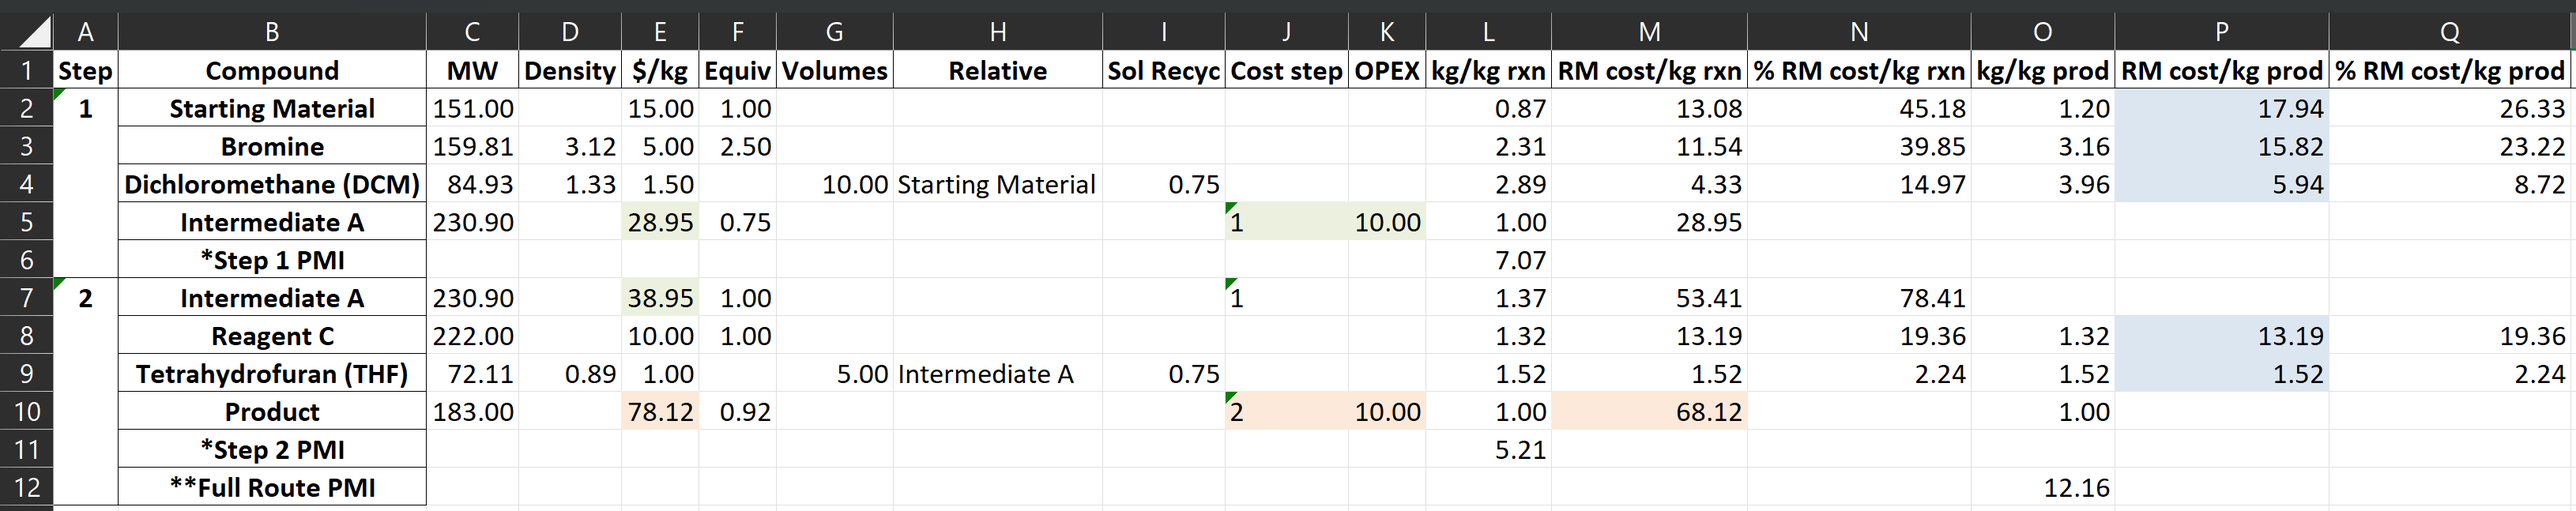
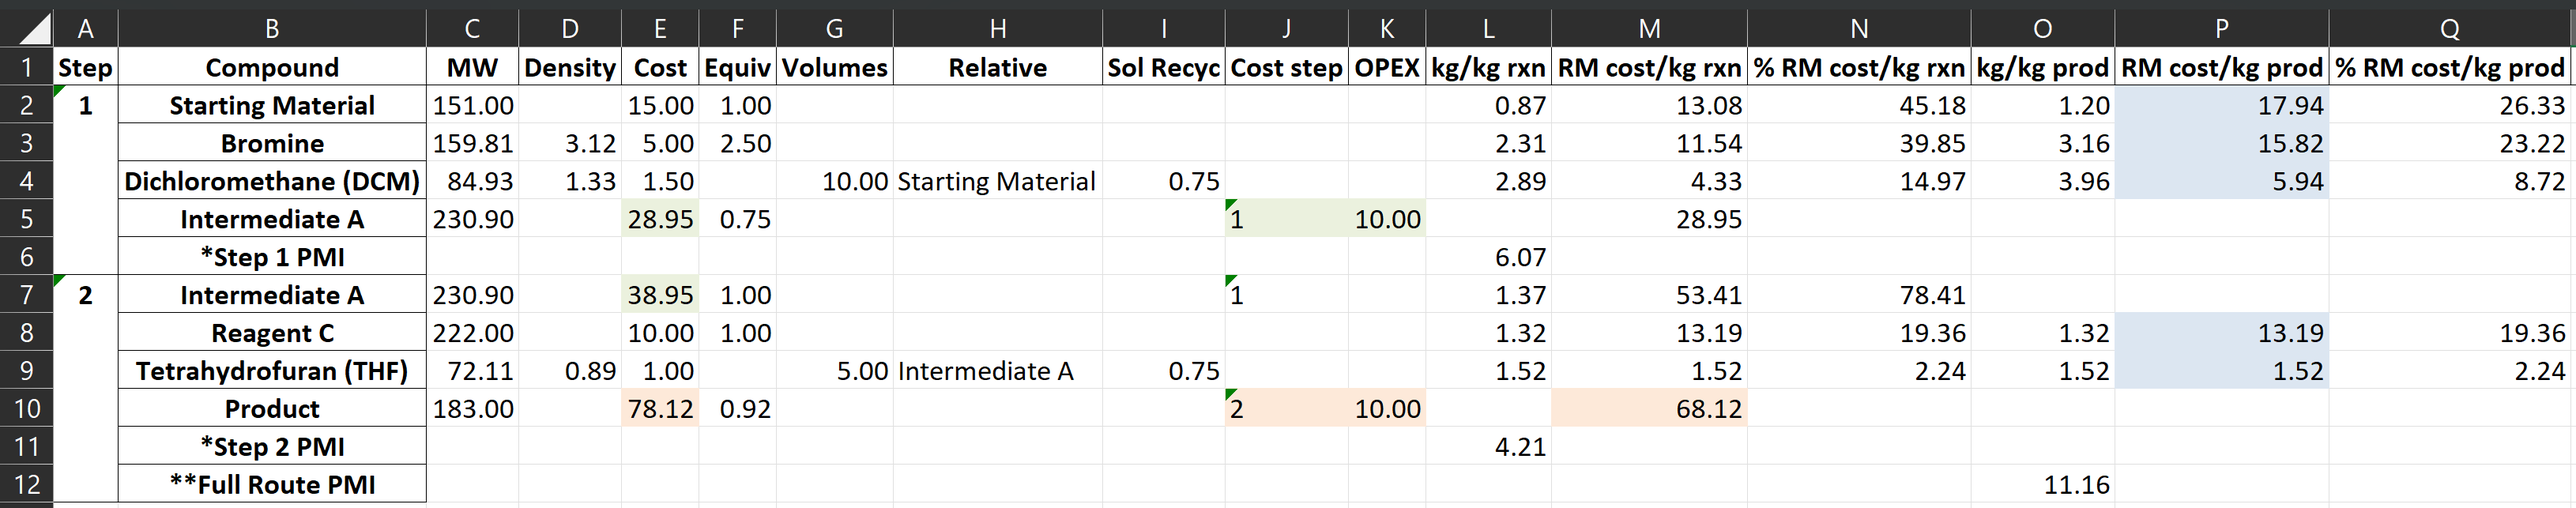
Fix docs for PMI updates

diff --git a/docs/interpret_results.rst b/docs/interpret_results.rst
@@ -37,12 +37,14 @@ route. Brief descriptions of these columns are below.
 
 * *kg/kg rxn*: These values are the number of kgs that are needed for each
   reagent/solvent in order to make 1 kg of reaction product. Notice that the
-  number of kgs of reaction product is always 1.0.
+  reaction product does not have a number here because of the assumed value of
+  1 kg.
 
 * *RM cost/kg rxn*: These are the costs ($/kg) for each reagent/solvent that
   would be needed to make 1 kg of reaction product. This is simply the *kg/kg
   rxn* column multiplied by the *$/kg* column. The sum of these values would
-  be the RMC for each reaction product.
+  be the RMC for each reaction product and is the value in the product cell
+  for this column.
 
 * *% RM cost/kg rxn*: These are the *RM cost/kg rxn* expressed as percentages
   of the RMC for the reaction product. In other words, this is the *RM cost/kg
@@ -57,18 +59,19 @@ values should be interpreted for the entire route. Brief descriptions of these
 columns are below.
 
 * *kg/kg prod*: The number of kgs needed for each reagent/solvent in order to
-  synthesize 1 kg of the final product of the route.
+  synthesize 1 kg of the final product of the route. The 1 kg of final product
+  is not included in this column.
 
 * *RM cost/kg prod*: The RM cost contribution ($/kg) of each reagent/solvent
   to the RMC of the route product. This is simply *kg/kg prod* multiplied by
   the *$/kg* column. The sum of these values across the entire route should
   equal the RMC of the route product, *unless* OPEX is being added to one or
-  more reaction steps. 
+  more reaction steps. See :ref:`the OPEX section below <OPEX>`.
 
 * *% RM cost/kg prod*: Again, this is simply the *RM cost/kg prod* expressed
   as a percentage of the RMC for the overall route product. The sum of these
   values across the entire route should be 100%, *unless* OPEX is being added
-  to one or more reaction steps.
+  to one or more reaction steps. See :ref:`the OPEX section below <OPEX>`.
 
 PMI Values
 ----------
@@ -78,9 +81,10 @@ intensity (PMI) for each reaction (rows 6 and 11) and the overall route (row
 12). PMI can be defined as the number of kgs of materials needed to make 1 kg
 of product. This is a common metric for process waste, as larger PMI values
 can be interpreted as more materials being used, and potentially wasted, to
-create 1 kg of product. These values are shown in different columns because
-the per reaction PMI is calculated from the *kg/kg rxn* data, whereas the per
-route PMI is calculated from the *kg/kg prod* data. 
+create 1 kg of product. A "perfect" PMI is 1, which means that 1 kg of
+material was used to make 1 kg of product. These values are shown in different
+columns because the per reaction PMI is calculated from the *kg/kg rxn* data,
+whereas the per route PMI is calculated from the *kg/kg prod* data. 
 
 .. note:: 
    
@@ -92,6 +96,8 @@ route PMI is calculated from the *kg/kg prod* data.
    Recyc" column) to zero for all solvents, and the Excel file will
    recalculate the PMI parameters. These all-solvent PMI values will likely be
    dominated by solvent usage, though.
+
+.. _OPEX:
 
 OPEX Additions
 --------------

diff --git a/docs/tables_basics.rst b/docs/tables_basics.rst
@@ -193,17 +193,15 @@ will be ignored during the costing operation.
 
 .. _OPEXinput:
 
-
 * *OPEX*: (Optional) An estimate, in $/kg, of the operating expenses for a
   given reaction step. This number is only valid for the product of any given
   step.  Although these values are not given for the current demo route, they
   could have been given for Intermediate A in Step 1 (Cell H5) and/or Product in
   Step 2 (cell H10). For route intermediates, these values are added to the
-  RMC values in subsequent steps. For example, an OPEX of $10/kg for
-  Intermediate A would add this value to the calculated RMC from Step 1 when
-  it is used in Step 2. This can be a bit confusing at first, so it is
-  recommended to add some numbers here and then examine the costing output
-  carefully.
+  RMC values in subsequent steps; the OPEX for the final product is added to
+  the final RMC value in the *$/kg* column. This can be a bit confusing at
+  first, so a :ref:`second model using OPEX values <OPEX>` will be presented
+  in the next section. 
 
 * *Notes*: (Optional) Notes for this particular compound. For example, a
   reference can be included here if the reaction was taken from the
